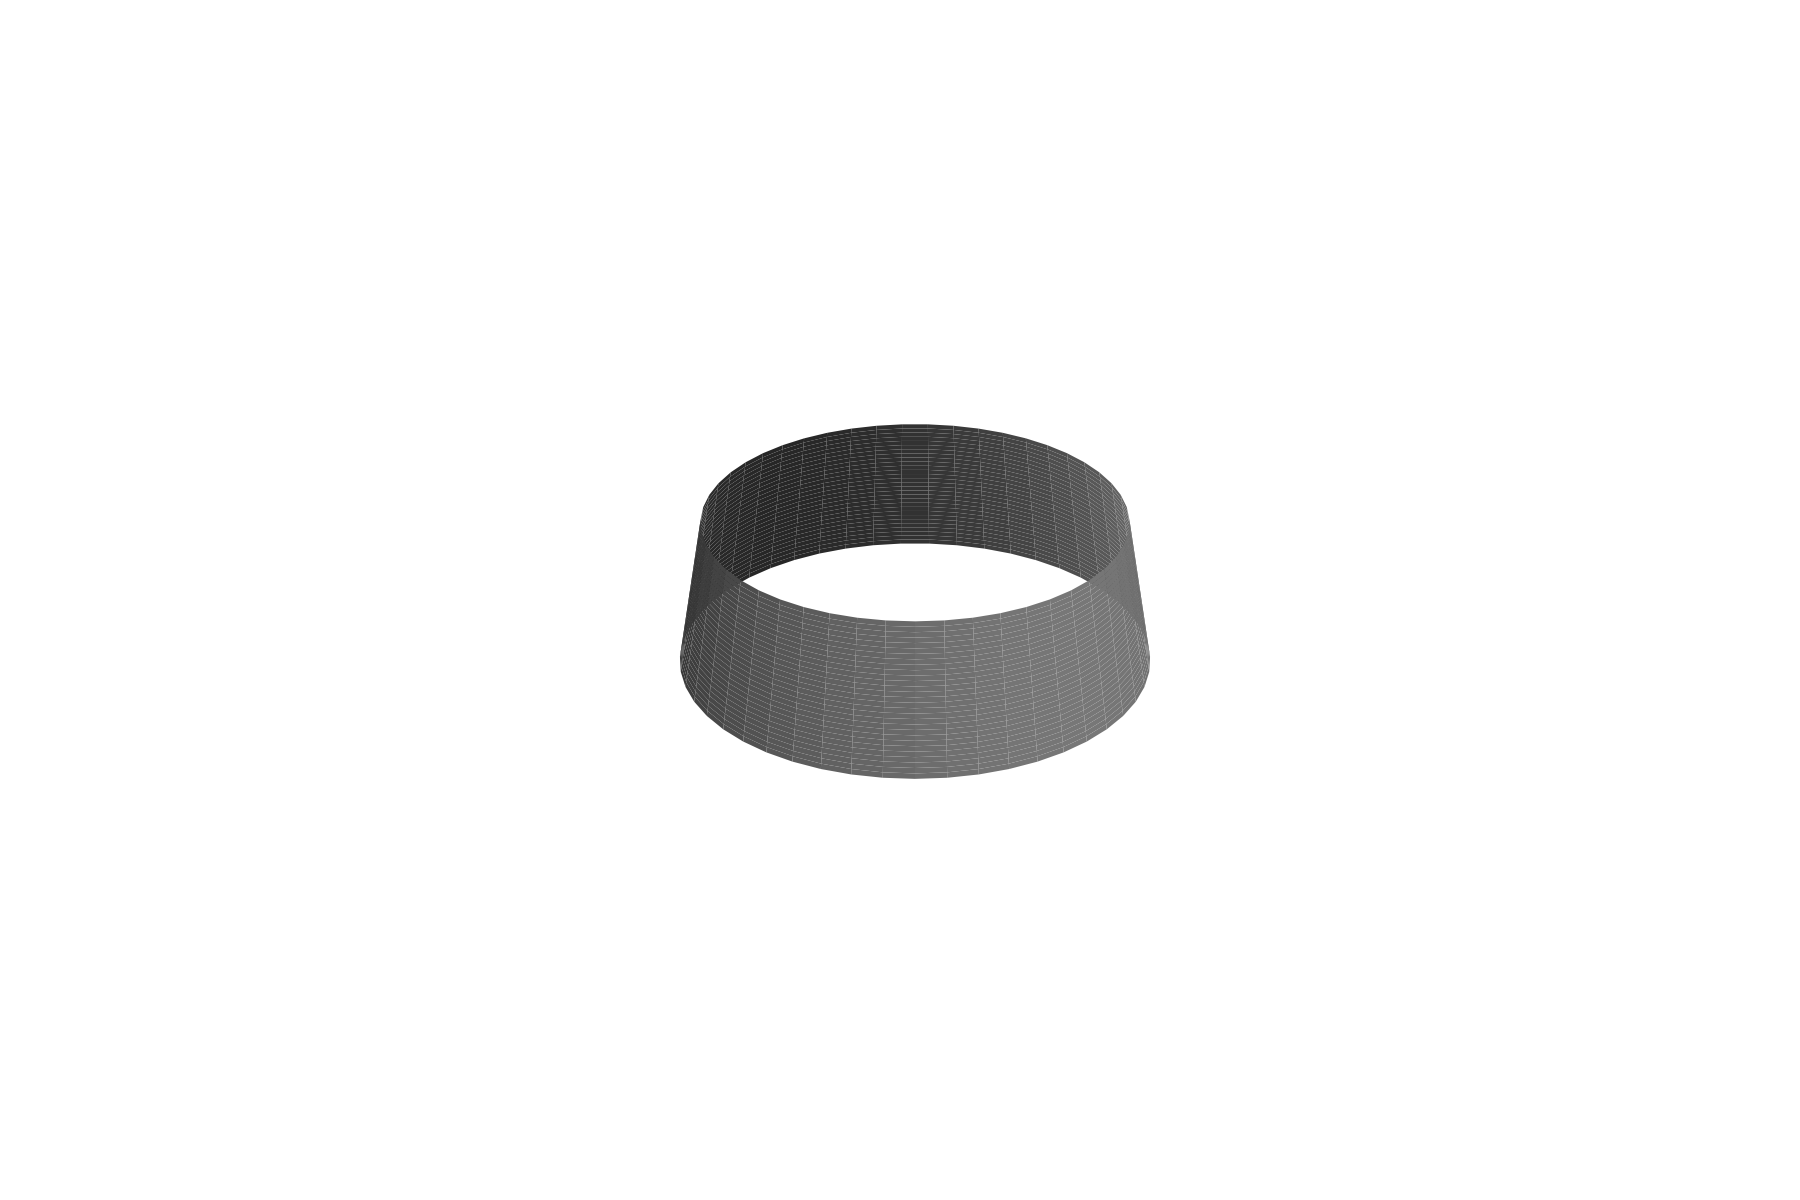
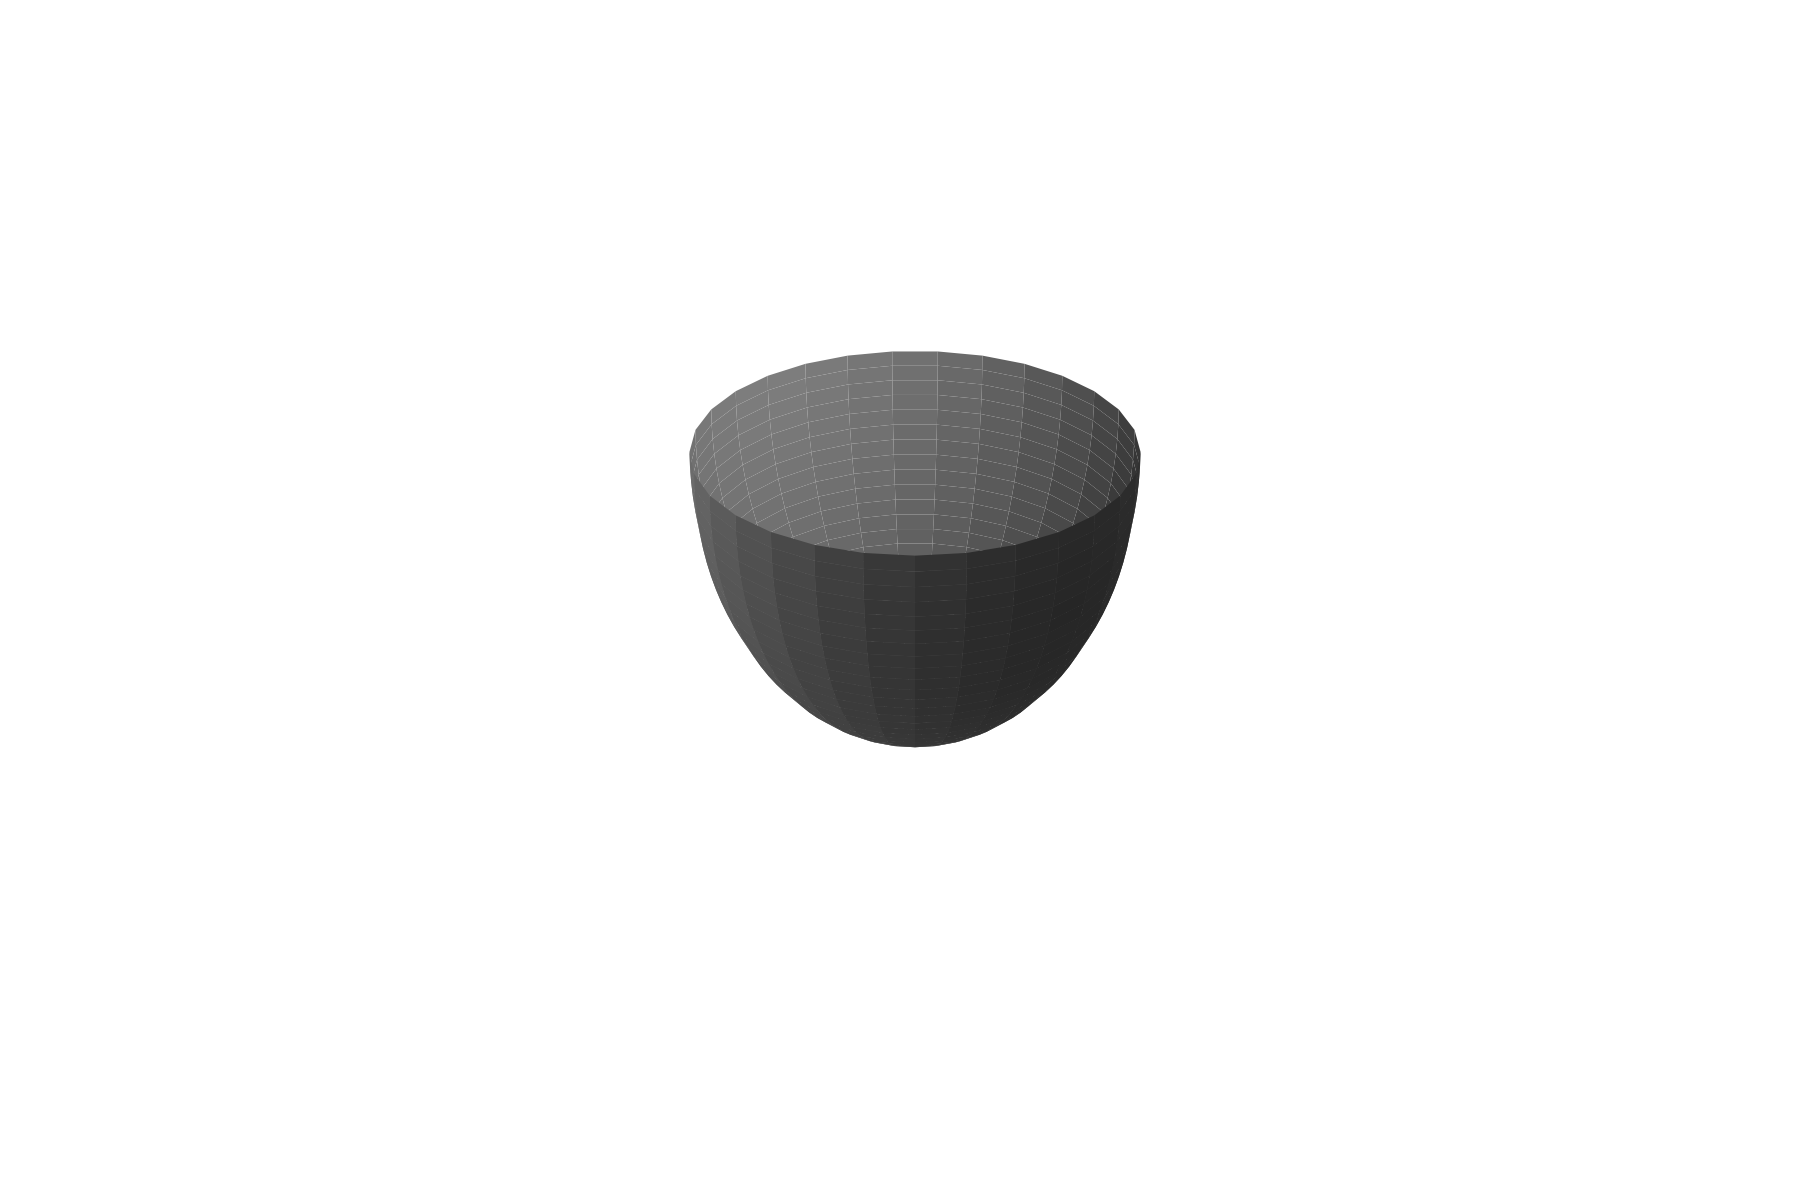
Working base

Changed region(s): [[0.3733, 0.2775, 0.6533, 0.6475]]

diff --git a/base.py b/base.py
@@ -6,15 +6,17 @@ import numpy as np
 import random
 
 def draw_base(filename="bonsai_base.png"):
-    base_type = random.choice(["cuboid", "trapezoidal", "cylinder"])
+    base_type = random.choice(["cuboid", "trapezoidal", "cylinder", "curved trapezoidal", "spherical"])
     print(f"Base type selected: {base_type}")
     
     if base_type == "cylinder":
-        draw_3D_base(filename)
+        draw_3D_base(filename, base_type)
+    elif base_type == "spherical":
+        draw_3D_base(filename, base_type)
     else:
         draw_flat_base(filename, base_type)
 
-def draw_3D_base(filename):
+def draw_3D_base(filename, base_type):
     fig = plt.figure(figsize=(6, 4))
     ax = fig.add_subplot(111, projection='3d')
     ax.axis('off')
@@ -23,25 +25,32 @@ def draw_3D_base(filename):
     width = random.uniform(4.0, 8.0)
     depth = random.uniform(2.0, 4.0)
 
-    r_top = random.uniform(0.5, 1.0) * (width / 2)
-    r_bot = width / 2
-    z = np.linspace(0, height, 30)
-    theta = np.linspace(0, 2 * np.pi, 50)
-    Z, Theta = np.meshgrid(z, theta)
+    if base_type == "cylinder":
+        r_top = random.uniform(0.5, 1.0) * (width / 2)
+        r_bot = width / 2
+        z = np.linspace(0, height, 30)
+        theta = np.linspace(0, 2 * np.pi, 50)
+        Z, Theta = np.meshgrid(z, theta)
 
-    R = np.linspace(r_bot, r_top, len(z))
-    R = np.tile(R, (len(theta), 1))
-    X = R * np.cos(Theta)
-    Y = R * np.sin(Theta)
+        R = np.linspace(r_bot, r_top, len(z))
+        R = np.tile(R, (len(theta), 1))
+        X = R * np.cos(Theta)
+        Y = R * np.sin(Theta)
 
-    ax.plot_surface(
-        X, Y, Z,
-        color='gray',
-        edgecolor='none',
-        linewidth=0,
-        antialiased=True,
-        alpha=1.0
-    )
+        ax.plot_surface(X, Y, Z, color='gray', edgecolor='none', linewidth=0, alpha=1.0)
+
+    elif base_type == "spherical":
+        # Half sphere (hemisphere)
+        u = np.linspace(np.pi/2, np.pi, 30)     # polar angle from 0 to pi
+        v = np.linspace(0, 2*np.pi, 30)     # azimuthal angle from 0 to pi (half sphere)
+
+        radius = width / 2
+        U, V = np.meshgrid(u, v)
+        X = radius * np.sin(U) * np.cos(V)
+        Y = radius * np.sin(U) * np.sin(V)
+        Z = radius * np.cos(U)
+
+        ax.plot_surface(X, Y, Z, color='gray', edgecolor='none', alpha=1.0)
 
     ax.set_box_aspect([width, depth, height])
     ax.view_init(elev=15, azim=0)
@@ -66,8 +75,8 @@ def draw_flat_base(filename, base_type):
     corner_radius = min(0.6, height * 0.25)
 
     # Base front face vertices
-    if base_type == "trapezoidal":
-        shrink = random.uniform(0.5, 0.9)
+    if base_type in ["trapezoidal", "curved trapezoidal"]:
+        shrink = random.uniform(0.7, 0.9)
         top_right = (width * shrink + (1 - shrink) * width / 2, height)
         top_left = ((1 - shrink) * width / 2, height)
     else:
@@ -77,43 +86,77 @@ def draw_flat_base(filename, base_type):
     bottom_left = (0, 0)
     bottom_right = (width, 0)
 
-    # Rounded front face: simulated with straight edges and corner arcs
     def arc(cx, cy, start_angle, end_angle, r, steps=6):
         angles = np.linspace(start_angle, end_angle, steps)
         return [(cx + r * np.cos(a), cy + r * np.sin(a)) for a in angles]
 
-    # Points with arcs replacing corners
-    front_face = []
-    front_face += arc(bottom_left[0] + corner_radius, bottom_left[1] + corner_radius, np.pi, 1.5*np.pi, corner_radius)
-    front_face.append((bottom_right[0] - corner_radius, bottom_right[1]))
-    front_face += arc(bottom_right[0] - corner_radius, bottom_right[1] + corner_radius, 1.5*np.pi, 2*np.pi, corner_radius)
-    front_face.append((top_right[0], top_right[1] - corner_radius))
-    front_face += arc(top_right[0] - corner_radius, top_right[1] - corner_radius, 0, 0.5*np.pi, corner_radius)
-    front_face.append((top_left[0] + corner_radius, top_left[1]))
-    front_face += arc(top_left[0] + corner_radius, top_left[1] - corner_radius, 0.5*np.pi, np.pi, corner_radius)
-    front_face.append((bottom_left[0], bottom_left[1] + corner_radius))
+    def vertical_curve(p1, p2, amount=0.2, steps=10):
+        xs = np.linspace(p1[0], p2[0], steps)
+        ys = np.linspace(p1[1], p2[1], steps)
+        dx = amount * np.sin(np.linspace(0, np.pi, steps))
+        return list(zip(xs + dx, ys))
+
+    #FRONT FACE
+    if base_type == "curved trapezoidal":
+        front_face = []
+        front_face += arc(bottom_left[0] + corner_radius, bottom_left[1] + corner_radius,
+                          np.pi, 1.5 * np.pi, corner_radius)
+        front_face.append((bottom_right[0] - corner_radius, bottom_right[1]))
+        front_face += arc(bottom_right[0] - corner_radius, bottom_right[1] + corner_radius,
+                          1.5 * np.pi, 2 * np.pi, corner_radius)
+
+        left_curve = vertical_curve((bottom_left[0], bottom_left[1] + corner_radius), top_left, amount=0.2)
+        right_curve = vertical_curve((bottom_right[0], bottom_right[1] + corner_radius), top_right, amount=-0.2)
+
+        front_face += right_curve
+        front_face += left_curve[::-1]
+    else:
+        front_face = []
+        front_face += arc(bottom_left[0] + corner_radius, bottom_left[1] + corner_radius,
+                          np.pi, 1.5 * np.pi, corner_radius)
+        front_face.append((bottom_right[0] - corner_radius, bottom_right[1]))
+        front_face += arc(bottom_right[0] - corner_radius, bottom_right[1] + corner_radius,
+                          1.5 * np.pi, 2 * np.pi, corner_radius)
+        front_face.append((top_right[0], top_right[1] - corner_radius))
+        front_face += arc(top_right[0] - corner_radius, top_right[1] - corner_radius, 0, 0.5 * np.pi, corner_radius)
+        front_face.append((top_left[0] + corner_radius, top_left[1]))
+        front_face += arc(top_left[0] + corner_radius, top_left[1] - corner_radius,
+                          0.5 * np.pi, np.pi, corner_radius)
+        front_face.append((bottom_left[0], bottom_left[1] + corner_radius))
 
     ax.add_patch(patches.Polygon(front_face, closed=True, facecolor="gray", edgecolor="black", linewidth=2))
 
-    # ✅ Adjusted top face: start inside the corners
-    adjusted_left = top_left[0] + corner_radius
-    adjusted_right = top_right[0] - corner_radius
+    # TOP FACE
+    if base_type == "curved trapezoidal":
+        top_left_corner = left_curve[-1]
+        top_right_corner = right_curve[-1]
+    else:
+        top_left_corner = (top_left[0] + corner_radius / 1.5, top_left[1])
+        top_right_corner = (top_right[0] - corner_radius / 1.5, top_right[1])
 
     top_inner_left = (
-        adjusted_left + (adjusted_right - adjusted_left) * (1 - top_shrink) / 2,
-        top_left[1] + top_depth
+        top_left_corner[0] + (top_right_corner[0] - top_left_corner[0]) * (1 - top_shrink) / 2,
+        top_left_corner[1] + top_depth
     )
     top_inner_right = (
-        adjusted_right - (adjusted_right - adjusted_left) * (1 - top_shrink) / 2,
-        top_right[1] + top_depth
+        top_right_corner[0] - (top_right_corner[0] - top_left_corner[0]) * (1 - top_shrink) / 2,
+        top_right_corner[1] + top_depth
     )
 
-    top_face = [
-        (adjusted_left, top_left[1]),
-        (adjusted_right, top_right[1]),
-        top_inner_right,
-        top_inner_left
-    ]
+    if base_type == "curved trapezoidal":
+        top_face = []
+        top_face.append(top_left_corner)
+        top_face.append(top_right_corner)
+        top_face.append(top_inner_right)
+        top_face.append(top_inner_left)
+    else:
+        top_face = [
+            top_left_corner,
+            top_right_corner,
+            top_inner_right,
+            top_inner_left
+        ]
+
     ax.add_patch(patches.Polygon(top_face, closed=True, facecolor="#cccccc", edgecolor="black", linewidth=2))
 
     ax.set_xlim(-1, width + 2)
@@ -122,3 +165,4 @@ def draw_flat_base(filename, base_type):
     plt.savefig(filename, dpi=300, transparent=True)
     plt.close()
     print(f"Flat base saved to: {filename}")
+
